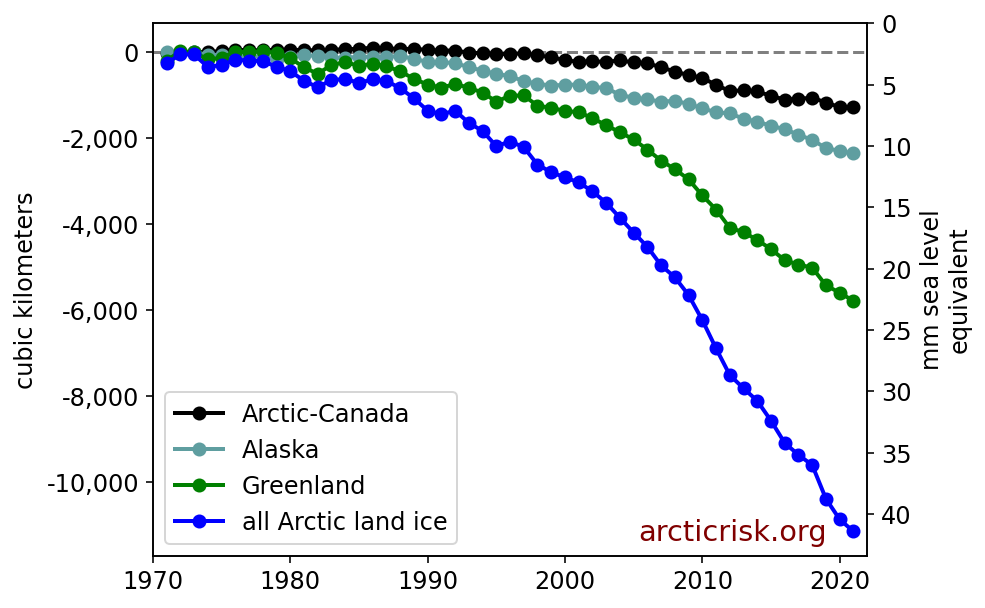
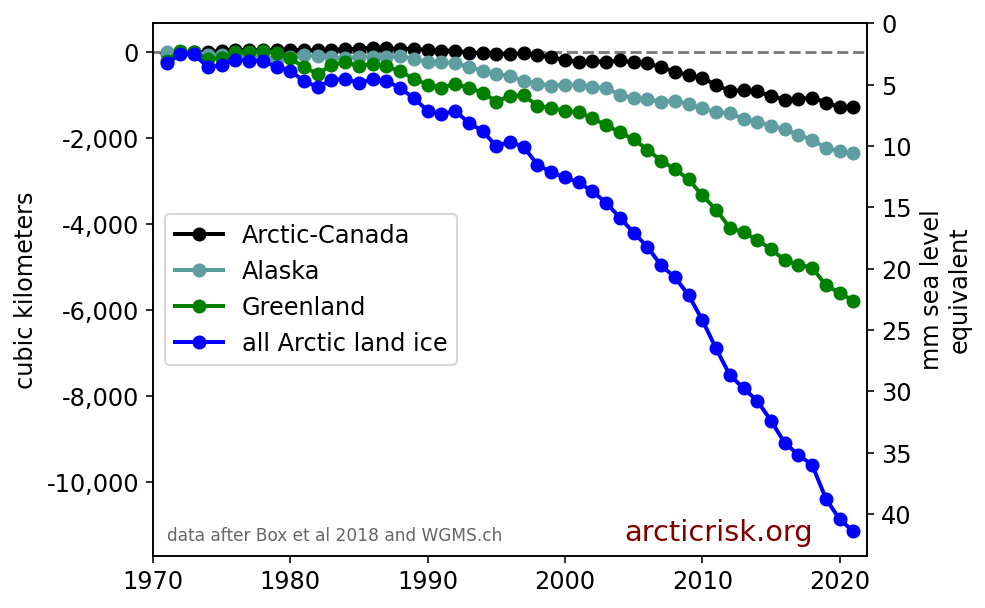
update

diff --git a/src/glaciers.py b/src/glaciers.py
@@ -83,7 +83,7 @@ ax.set_ylabel("cubic kilometers", color=fg)
 # ax.set_ylim(np.nanmin(y)*0.99,np.nanmax(y)*1.01)     
 # ax.set_ylim(0,np.nanmax(y)*1.01)     
 ax.get_xaxis().set_visible(True)
-ax.legend()
+ax.legend(loc='center left')
 ax.set_xlim(1970,2022)
 
 ax.yaxis.set_major_formatter(mpl.ticker.StrMethodFormatter('{x:,.0f}'))
@@ -106,105 +106,15 @@ for i in range(cc):
     ax[i].spines['right'].set_color(fg)
     ax[i].tick_params(color=fg, labelcolor=fg)
 
-# plt.subplots_adjust(wspace=0, hspace=0)
-
-# props = dict(boxstyle='round', facecolor='w', alpha=0.5,edgecolor='w')
-# plt.text(1.01,0.01, 'Arctic Monitoring and Assessment Program (AMAP), 2022', transform=ax[cc-1].transAxes, fontsize=font_size*0.9,
-#         verticalalignment='top',rotation=90,color='grey', rottion_mode="anchor")
-
-# plt.text(0.02,0.95, 'Arctic Monitoring and Assessment Program (AMAP)', transform=ax[0].transAxes, fontsize=font_size*0.6,
-#         verticalalignment='top',rotation=0,color='grey', rotation_mode="anchor")
-# plt.text(1.5,-0.03, 'ver.'+versionx, transform=ax[cc-1].transAxes, fontsize=font_size*0.63,
-#         verticalalignment='top',rotation=0,color='grey', rotation_mode="anchor")
-
-# SIV=[]
-# x=[]
-
-# for yy in range(nyears):
-#     for mm in range (12):
-#         print(yy,mm,df.iloc[yy,mm+1])
-#         SIV.append(df.iloc[yy,mm+1])
-#         x.append(yy+iyear+(mm/12))
-
-# x=np.array(x)
-# y=np.array(SIV)
-# y[y<0]=np.nan
-
-# y*=1000
-
-# ylab='Arctic sea ice volume, x 1,000 $km^{3}$'
-# ylab='cubic kilometers'
-
-# v=np.where(np.isfinite(y))
-# # v=np.where((y>=)&(np.isfinite(y)))1
-
-# ax.set_title('Arctic Sea Ice Volume '+str(iyear)+' to '+str(fyear))
-# ax.plot(x[v[0]], y[v[0]],'-',c=(0.0, 0.2, 0.7),label=lab)
-
-# coefs=stats.pearsonr(x[v[0]],y[v[0]])
-# b, m = polyfit(x[v[0]],y[v[0]], 1)
-
-# ax.plot(x[v[0]], b + m * x[v[0]], '--',c=(1., 0., 0.0))
-# ax.set_ylabel(ylab,fontsize=fs)
-
-# confidencex=str("%8.3f"%(1-coefs[1])).lstrip()
-# if confidencex=='1.000':confidencex='>0.999'
-# ny=len(v[0])    
-# mult=0.79
-# xx0=0.04 ; yy0=0.15
-# units=' M $km^{2}$'
-# ny=len(x[v[0]])
-# # change=m*ny/np.mean(y[v[0]])*100.
-# xx0=m*x[v[0][0]]+b
-# xx1=m*x[v[0][-1]]+b
-# change=(xx1-xx0)/xx0*100.
-# ax.set_xlim(iyear-1,fyear+1-0.1)
-
-# xticksx=np.arange(min(x[v[0]]), max(x[v[0]])+1, 2)-1
-
-# ax.set_xticks(xticksx)
-
-# yticksx=np.arange(0,33.5,5)*1000
-# ax.set_ylim(0,33500)
-
-# ax.set_yticks(yticksx,
-#             # rotation=45,
-#             fontsize=fs,
-#             rotation_mode="anchor",ha='right')
-
-# ax.set_xticklabels(xticksx.astype(int),rotation=45,
-#             fontsize=fs,
-#             rotation_mode="anchor",ha='right')
-
-
-# props = dict(boxstyle='round', facecolor='w', alpha=0.5,edgecolor='grey')
-
-# mult=0.9
-# xx0=0.02 ; yy0=0.21
-
-# c0=0.4
-# color=[c0,c0,c0]
-
-# ax.text(xx0,yy0, '%.0f'%nyears+' years\n'
-#         # +'time correlation: %.3f'%coefs[0]+'\n'
-#         +'loss rate: %.0f'%-m+' $km^{3}$ per year\n'
-#         # +'confidence: '+confidencex+'\n'
-#         +'change over period of record: %.1f' % change+'%'
-#         ,transform=ax.transAxes, fontsize=fs*mult,
-#         verticalalignment='top', 
-#         #bbox=props,
-#         rotation=0,color=color, rotation_mode="anchor")  
-
 mult=1.2
-# ax.text(0.78,0.04, '@Climate_Ice', transform=ax.transAxes,
-# ax.text(0.77,0.04, '@AMAP_Arctic', transform=ax.transAxes,
-ax.text(0.68,0.07, 'arcticrisk.org', transform=ax.transAxes,
+ax.text(0.66,0.07, 'arcticrisk.org', transform=ax.transAxes,
         fontsize=font_size*mult,verticalalignment='top',color='maroon', rotation_mode="anchor")
 
-# mult=0.85
-# # xx0=0.02
-# ax.text(xx0,0.055, 'data after Schweiger et al 2011, Zhang et al 2003',transform=ax.transAxes, fontsize=fs*mult,
-#         verticalalignment='top',rotation=0,color=color, rotation_mode="anchor")  
+mult=0.85
+# xx0=0.02
+# world glacier monitoring service
+ax.text(xx0,0.055, 'data after Box et al 2018 and WGMS.ch',transform=ax.transAxes, fontsize=fs*mult,
+        verticalalignment='top',rotation=0,color=color, rotation_mode="anchor")  
 
 ly='p'
 
